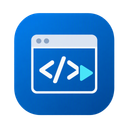
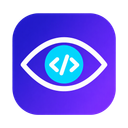
feat: 更換擴充功能圖示為「眼睛＋程式碼」新設計，提升工具列小尺寸辨識度（v0.4.1）
背景：
- 原本的藍色視窗＋</> 圖示在瀏覽器工具列的 16 / 32 px 下幾乎只剩一塊藍色方塊，
  與其他擴充功能難以區分，辨識度不足。

新設計：
- 靛紫漸層的圓角方形底板，中央一隻白色粗線條眼睛，瞳孔為青色圓形、內含白色 </>，
  意指「直接看見程式碼渲染後的樣子」，呼應本擴充功能的預覽用途。
- 以 Azure OpenAI 圖片模型（MAI-Image-2.6-Flash）產生 6 個候選概念，
  依 128 / 48 / 32 / 16 px 在淺色與深色底上的實際辨識度比較後選定此案。
- 刻意不使用 Microsoft / Azure DevOps 官方標誌元素，避免商店審核的商標疑慮。

圖示檔（icons/）：
- icon-1024.png 母檔改為 1024×1024（原為 1072×1072），內容約 896 px、四周透明留白。
- icon128 / icon48 / icon32 / icon16 由母檔以 lanczos3 縮圖，留白比照舊圖示
  （128→內容約 104 px、48→40、32→28、16→14），32 px 以下另做輕微銳化。
- 清理生成圖：底板 alpha 由 253 拉滿為 255（避免底板略透），完全透明像素的 RGB 歸零（避免殘色在部分檢視器出現光暈）。
- 16 px 放大檢查：眼形與青色瞳孔在淺色、深色工具列上都清楚可辨。

商店宣傳圖（store-assets/）：
- promo-small-440x280.png、promo-marquee-1400x560.png 改用新圖示，
  背景為圖示配色的深色版（深靛 #1b1464 → 深紫 #3b0f7a 對角漸層，中央淡紫光暈），圖示下方加柔和陰影；版面與舊圖相同（圖示置中）。
- 四張截圖（screenshot-*.png）未更動。

版本：
- manifest.json 版號 0.4.0 → 0.4.1；新增 release-notes/v0.4.1.md。
- 功能、按鈕與預覽行為完全不變；scripts/package.sh 打包檢查通過。

相關：
- Tampermonkey 版的圖示（TampermonkeyUserscripts 的 images/AzureDevOpsHtmlPreview.png）同步換成同一張設計，另行 commit。

diff --git a/release-notes/v0.4.1.md b/release-notes/v0.4.1.md
@@ -1,0 +1,17 @@
+## Azure DevOps HTML Preview v0.4.1 — 新圖示
+
+> 這一版只更換圖示與商店宣傳圖，功能與 v0.4.0 完全相同。
+
+### ✨ 新功能
+
+- **全新圖示**：靛紫漸層底板上一隻白色眼睛，瞳孔是青色的 `</>`，代表「直接看見程式碼渲染後的樣子」。
+  原本的藍色視窗圖示在瀏覽器工具列的小尺寸下幾乎只剩一塊藍色方塊；新圖示在 16 px 仍看得出眼形與青色瞳孔，比較好認。
+- 商店的小型與大型宣傳圖改用新圖示與同色系背景。
+
+### 🔁 行為變更
+
+- 僅圖示與宣傳圖更新；按鈕、預覽行為與支援的檔案格式完全不變。
+
+### ⚠ 已知限制
+
+- 與 v0.4.0 相同，請參閱 `release-notes/v0.4.0.md`。
